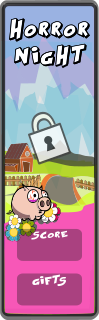
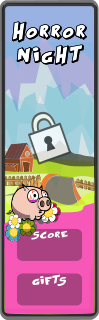
Mudança do background da tela de fases da primeira temporada.

Changed region(s): [[0.0909, 0.0312, 0.9091, 0.2188]]

diff --git a/core/src/br/com/chickenroad/screens/util/Constantes.java b/core/src/br/com/chickenroad/screens/util/Constantes.java
@@ -17,7 +17,7 @@ public class Constantes {
 
 	public static final String URL_BACK_BUTTON = "backButton.png";	
 	public static final String URL_BACKGROUND = "backgroundMenu.png";
-	public static final String URL_BACKGROUND_SEASON = "backgroundSeason.png";
+	public static final String URL_BACKGROUND_SEASON = "backgroundSeasonRoosterSong.png";
 	public static final String URL_BACKGROUND_ALL_SEASONS = "backgroundAllSeasons.png";
 	public static final String URL_PLAY_BUTTON = "playButton.png";
 	public static final String URL_EXIT_BUTTON = "exitButton.png";
